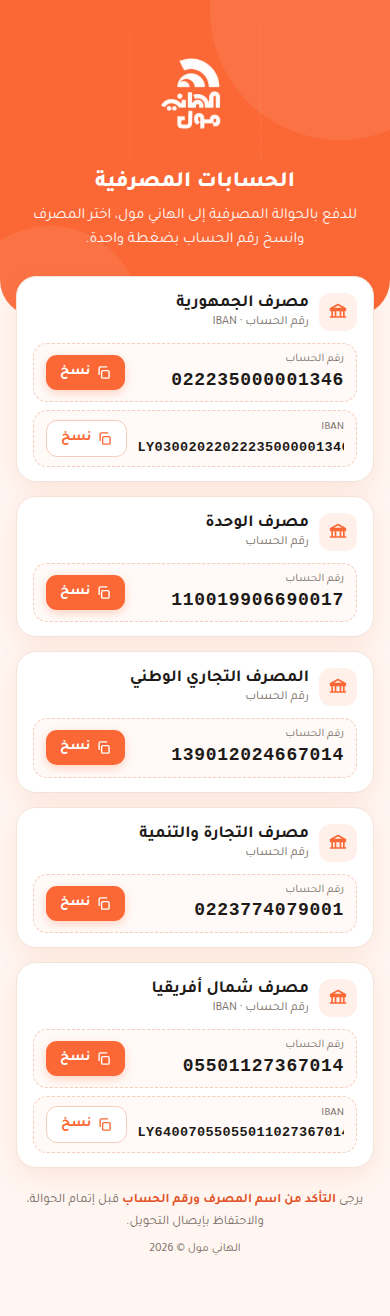
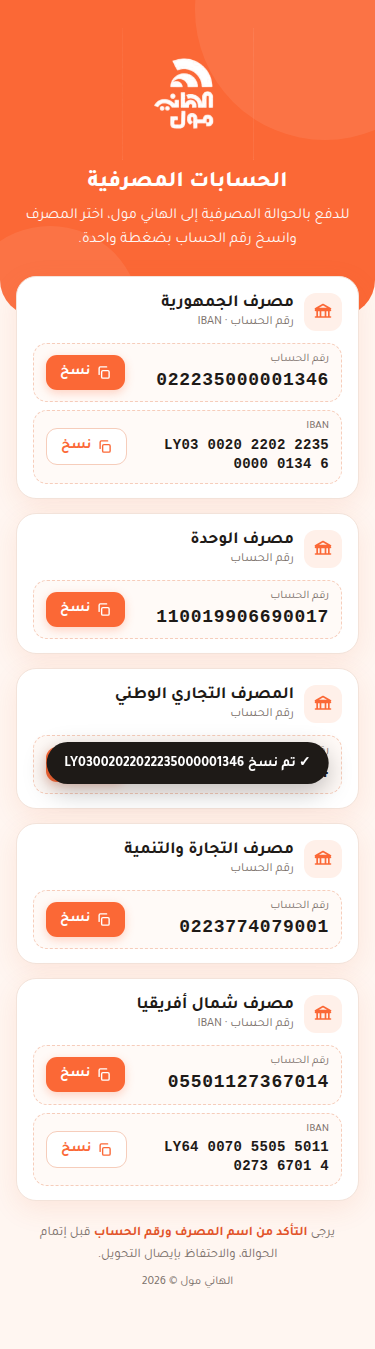
Serve from public/ dir; IBAN grouped display; one-line account numbers
Claude-Session: https://claude.ai/code/session_013byJmXqywk6brp9UGGG11K

diff --git a/public/index.html b/public/index.html
@@ -29,7 +29,7 @@ main{max-width:520px;margin:-40px auto 0;padding:0 16px 40px;position:relative}
 .row:active{background:#FFEFE5}
 .row .lbl{grid-area:lbl;font-size:11.5px;color:var(--muted);line-height:1.2}
 .row .num{grid-area:num;direction:ltr;text-align:right;font-family:"SF Mono",Menlo,Consolas,"Courier New",monospace;font-size:18px;font-weight:700;letter-spacing:.04em;white-space:nowrap;overflow-x:auto;color:var(--ink);font-variant-numeric:tabular-nums;user-select:all;-webkit-user-select:all;line-height:1.3}
-.row .num.iban{font-size:12.8px;font-weight:600;letter-spacing:.02em}
+.row .num.iban{font-size:14px;font-weight:600;letter-spacing:.02em;white-space:normal;line-height:1.35}
 .btn{grid-area:btn;flex:none;border:0;background:var(--orange);color:#fff;font-family:inherit;font-weight:700;font-size:14px;padding:9px 14px;border-radius:11px;cursor:pointer;display:inline-flex;align-items:center;gap:6px;box-shadow:0 3px 10px rgba(251,104,54,.28)}
 .btn:active{background:var(--orange-dark);transform:translateY(1px)}
 .btn.ghost{background:#fff;color:var(--orange);border:1.5px solid #F6CDBB;box-shadow:none}
@@ -69,7 +69,7 @@ main.innerHTML = BANKS.map((b,i)=>`
   <section class="card">
     <div class="bank"><div class="ic">${ICON}</div><div><h2>${b.name}</h2><small>رقم الحساب${b.iban?" · IBAN":""}</small></div></div>
     <div class="row" data-copy="${b.acc}"><span class="lbl">رقم الحساب</span><span class="num">${b.acc}</span><button class="btn" type="button">${COPY} نسخ</button></div>
-    ${b.iban?`<div class="row" data-copy="${b.iban}"><span class="lbl">IBAN</span><span class="num iban">${b.iban}</span><button class="btn ghost" type="button">${COPY} نسخ</button></div>`:""}
+    ${b.iban?`<div class="row" data-copy="${b.iban}"><span class="lbl">IBAN</span><span class="num iban">${b.iban.replace(/(.{4})/g,"$1 ").trim()}</span><button class="btn ghost" type="button">${COPY} نسخ</button></div>`:""}
   </section>`).join("") +
   `<p class="note">يرجى <b>التأكد من اسم المصرف ورقم الحساب</b> قبل إتمام الحوالة، والاحتفاظ بإيصال التحويل.</p>
    <footer>الهاني مول © ${new Date().getFullYear()}</footer>`;

diff --git a/README.md b/README.md
@@ -1,8 +1,8 @@
 # الهاني مول — صفحة الحسابات المصرفية (QR)
 
-صفحة واحدة ثابتة (`index.html`, مكتفية بذاتها، الشعار مضمّن) تعرض أرقام حسابات المول كنص قابل للنسخ بضغطة.
+صفحة واحدة ثابتة (`public/index.html`, مكتفية بذاتها، الشعار مضمّن) تعرض أرقام حسابات المول كنص قابل للنسخ بضغطة.
 
 - **النشر:** `docker compose up -d` → nginx على المنفذ 8090 · الرابط الحالي: http://169.58.143.252:8090
-- **تعديل الأرقام:** عدّل مصفوفة `BANKS` داخل `index.html` (الاسم، رقم الحساب، IBAN اختياري) — لا حاجة لإعادة تشغيل الحاوية.
+- **تعديل الأرقام:** عدّل مصفوفة `BANKS` داخل `public/index.html` (الاسم، رقم الحساب، IBAN اختياري) — لا حاجة لإعادة تشغيل الحاوية.
 - **QR:** `.venv/bin/python make_qr.py "https://الرابط"` → `qr.png` (مع الشعار) و`qr-plain.png` (بدون). عند تغيير الرابط/الدومين أعد التوليد.
 - الشعار: `logo-white.png` / `logo-orange.png` (خلفية شفافة) مستخرجان من شعار العميل.
